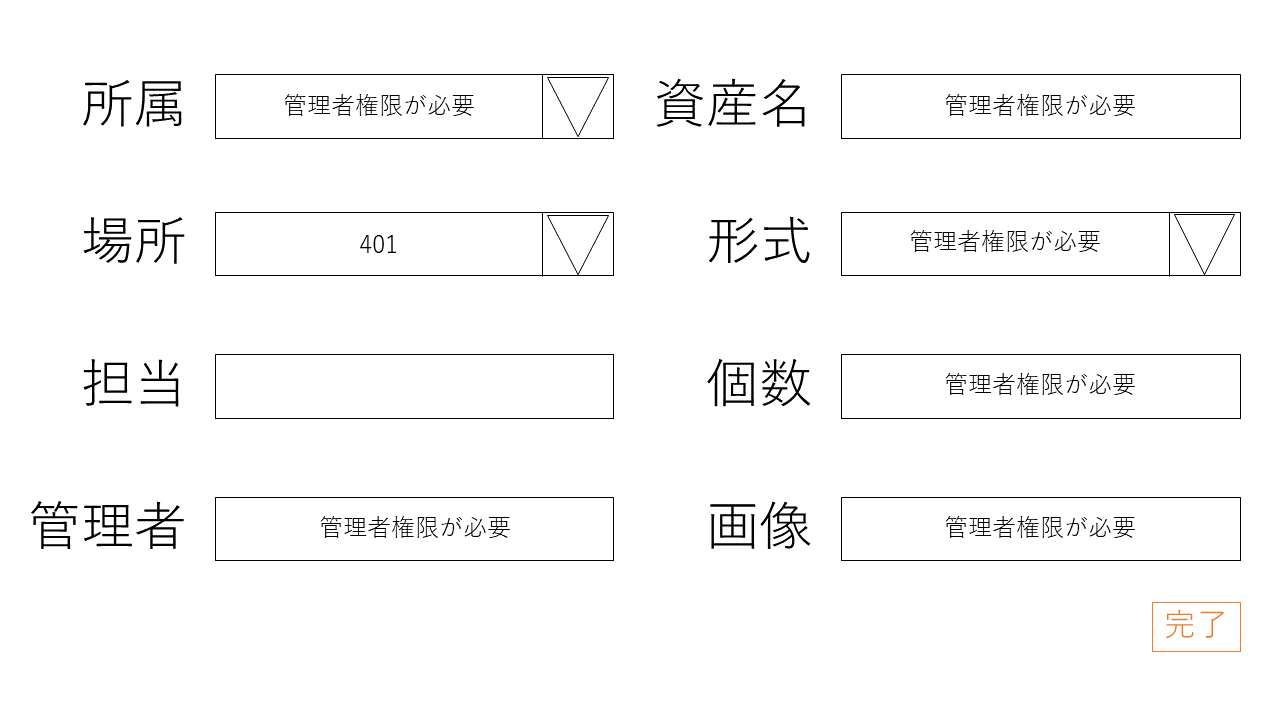
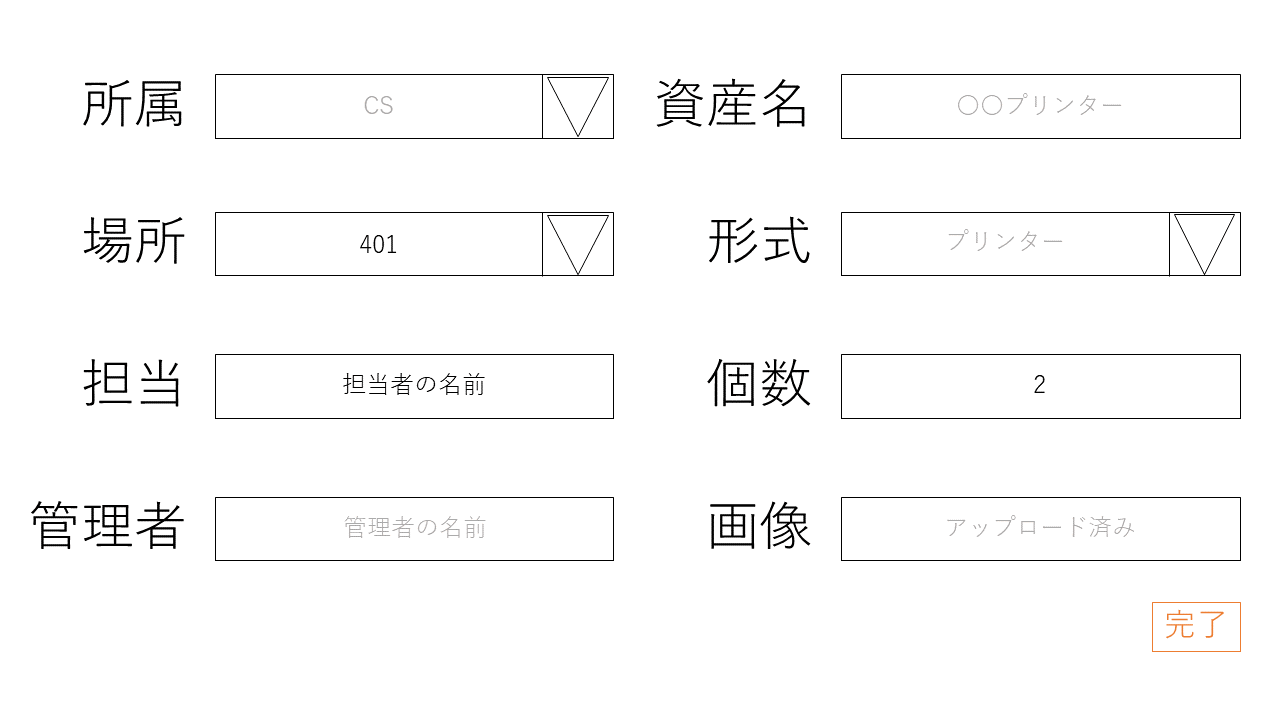
change.pngの変更 4.4 変更機能に文章を追加

diff --git a/URS/urs.tex b/URS/urs.tex
@@ -206,7 +206,7 @@
 \clearpage
 \subsection{変更機能}
 \label{subsec:変更機能}
-資産情報を変更する機能. 図\ref{fig:変更画面のイメージ図}の項目ごとに変更を可能とする. ただし, 管理者権限のない(管理者でない)ユーザには一部の項目は変更できないものとする. 各項目について, 要求する入力形式に基づいて変更できるようにする. また, 変更を実行する前に確認をする.
+資産情報を変更する機能. 図\ref{fig:変更画面のイメージ図}の項目ごとに変更を可能とする. ただし, 管理者権限のない(管理者でない)ユーザには一部の項目は変更できないものとする. 編集ができる部分は黒く表示され, 編集ができない部分については, 図\ref{fig:変更画面のイメージ図}のように灰色で表示される. 各項目について, 要求する入力形式に基づいて変更できるようにする. また, 変更を実行する前に確認をする.
 \begin{figure}[h]
   \centering
   \fbox{
